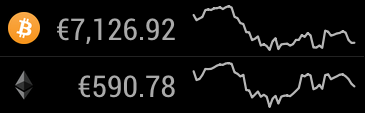
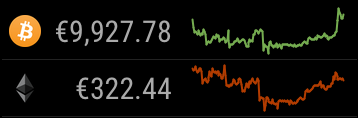
Updated documentation

diff --git a/README.md b/README.md
@@ -6,7 +6,7 @@ This module displays cryptocurrency information from the [Coin Market Cap](https
 
 | Status  | Version | Date       | Maintained? | Minimum MagicMirror² Version |
 |:------- |:------- |:---------- |:----------- |:---------------------------- |
-| Working | `2.1.0` | 2020-03-10 | Yes         |`2.2.1`                       |
+| Working | `2.2.0` | 2020-10-19 | Yes         |`2.2.1`                       |
 
 ### Example
 ![Example of MMM-CoinMarketCap](images/sample.png?raw=true "Example screenshot")
@@ -53,7 +53,6 @@ var config = {
                 currencies: ['bitcoin', 'ethereum', 'litecoin', 'ripple'],
                 view: 'graphWithChanges',
                 conversion: 'CAD',
-                ...
                 // See below for more Configuration Options
             }
         },
@@ -87,6 +86,7 @@ var config = {
 | `cacheLogos`            | *Optional* - Whether or not to download the logo images. When true the images will be downloaded, when false, they will be referenced from Coin Market Cap. <br />**Type:** `boolean`<br />**Default:** `true`
 | `graphRange`            | *Optional* - The number of days to show for the `graph` column. <br />**Type:** `number`<br />**Default:** `7`<br />**Options:** `1`, `7`, `30`
 | `graphSize`             | *Optional* - The size of graph to display in the `graph` column. <br />**Type:** `string`<br />**Default:** `'medium'`<br />**Options:** `'x-small'`, `'small'`, `'medium'`, `'large'`, `'x-large'`
+| `graphColored`          | *Optional* - Whether or not to use colors for the sparkline graps. When true the 1 day and 7 day graphs will be green when the currency value has increased over the period, and red when it has decreased. If false or using 30 day graphs, the standard grey color will be used.  <br />**Type:** `boolean`<br />**Default:** `false`
 | `updateInterval`        | *Optional* - The number of minutes between data updates.  The minimum value is `5`. <br />**Type:** `number`<br />**Default:** `10`
 | `retryDelay`            | *Optional* - If a data update request fails, this is the number of seconds to wait before trying again. <br />**Type:** `number`<br />**Default:** `10`
 
@@ -131,7 +131,7 @@ By default, this module will download the logo image files for the requested cur
 
 When using black and white logo mode, this module actually loads the color logos and a CSS filter is applied to convert the image to grayscale. This looks great for most of the logos, but as you can imagine, there may be some that don't look as good as the rest. If you would prefer a better black and white logo for a particular currency, you can make your own image file and place it into the `logos\bw` folder. Note: the images from the `logos\bw` will be displayed as is, with no CSS filtering applied, so they need to be grayscale images.  
 
-The naming convention for the logos is as follows: `{symbol}-{size}.png`. `{symbol}` represents the currency's short name, usually 3 to 5 characters, which MUST be in lower case.  `{size}` represents the size of the image in pixels.  There are 4 sizes configured in this module: 16, 32, 64, and 128.  These image files should be 16x16px, 32x32px, 64x64px, and 128x128px respectively.
+The naming convention for the logos is as follows: `{symbol}-{size}.png`. `{symbol}` represents the currency's short name, usually 3 to 5 characters, which MUST be in lower case.  `{size}` represents the size of the image in pixels.  There are 4 sizes configured in this module: 16, 32, 64, and 128.  These image files should be 16x16px, 32x32px, 64x64px, and 128x128px respectively.  Example: `btc-16.png`
 
 ## Updates
 To update the module to the latest version, use your terminal to:
@@ -143,6 +143,19 @@ If you have changed the module on your own, the update will fail. <br />To force
 git reset --hard
 git pull
 ```
+
+## Manually Choose a Version
+
+To use an older version of this module, use your terminal to:
+1. Navigate to your MMM-CoinMarketCap folder. If you are using the default installation directory, use the command:<br />`cd ~/MagicMirror/modules/MMM-CoinMarketCap`
+2. Fetch all the available tags<br />`git fetch`
+3. Show all the available tags<br />`git tag`
+4. Checkout one of the available tags<br />`git checkout {tag_name}`<br />Example: `git checkout v1.0.0`
+
+
+To switch back to the latest version, use your terminal to:
+1. Navigate to your MMM-CoinMarketCap folder. If you are using the default installation directory, use the command:<br />`cd ~/MagicMirror/modules/MMM-CoinMarketCap`
+2. Checkout the master branch<br />`git checkout master`
 
 ## License
 

diff --git a/CHANGELOG.md b/CHANGELOG.md
@@ -2,6 +2,14 @@
 All notable changes to this project will be documented in this file.
 This project adheres to [Semantic Versioning](http://semver.org/).
 
+## [2.2.0] - 2020-10-19
+
+### Added
+- Option to enable colors for graphs (for 1d and 7d graphs only)
+
+### Fixed
+- Sparkline Graphs not updating, showing a straight line (Issue #10)
+
 ## [2.1.0] - 2020-03-10
 
 ### Added
